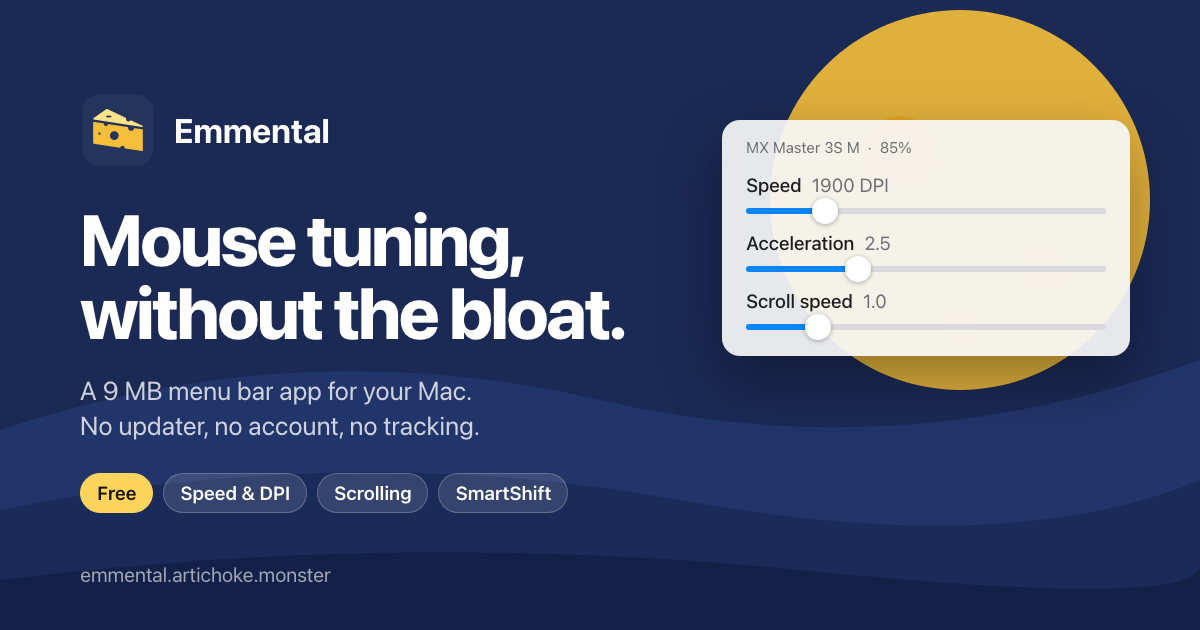
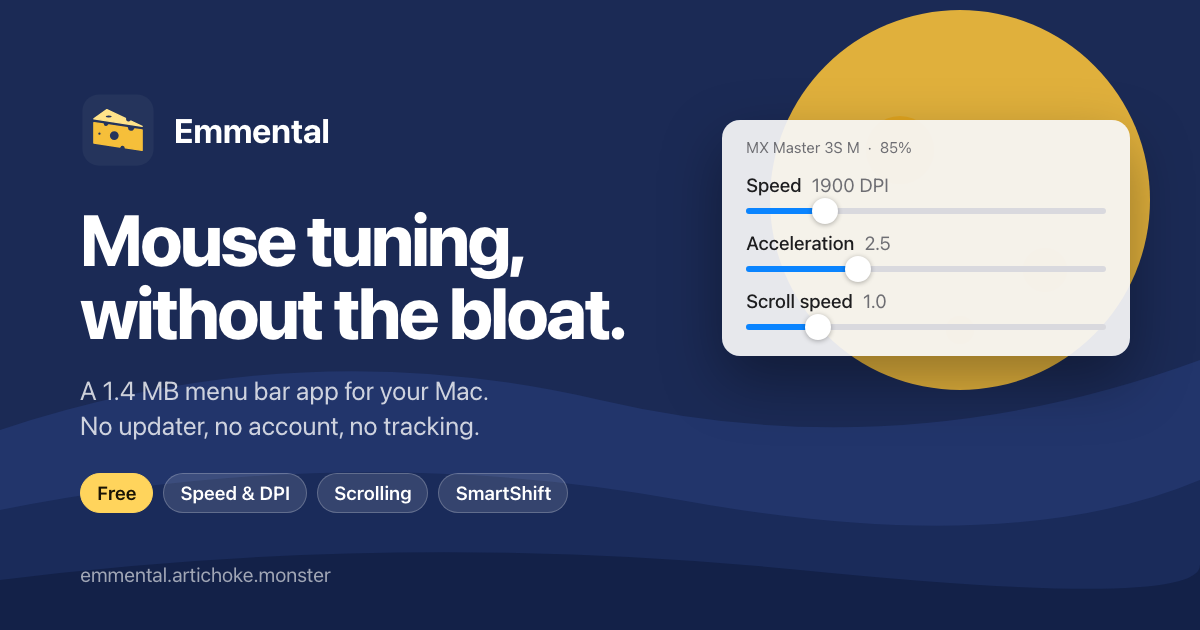
Docs: size and memory claims that hold on every Mac
"9 MB" was the Intel memory figure. Size claims now say 1.4 MB (the
universal app on disk) and memory claims say under 25 MB; the FAQ and
README give the measured figures: about 9 MB on Intel, about 23 MB on an
M1, where larger memory pages make every app look bigger. og.png is
re-rendered with the new line.

Changed region(s): [[0.0617, 0.6032, 0.4008, 0.6635]]

diff --git a/landing/index.html b/landing/index.html
@@ -4,7 +4,7 @@
 <meta charset="utf-8">
 <meta name="viewport" content="width=device-width, initial-scale=1">
 <title>Emmental · Mouse tuning for Mac, without the bloat</title>
-<meta name="description" content="Free 9 MB Mac menu bar app for mouse speed, acceleration and scrolling, plus DPI, SmartShift and battery on Logitech MX mice. No updater, no account.">
+<meta name="description" content="Free 1.4 MB Mac menu bar app for mouse speed, acceleration and scrolling, plus DPI, SmartShift and battery on Logitech MX mice. No updater, no account.">
 <link rel="canonical" href="https://emmental.artichoke.monster/">
 <meta name="robots" content="index, follow">
 <meta name="theme-color" content="#1E2A4A">
@@ -16,14 +16,14 @@
 <meta property="og:site_name" content="Emmental">
 <meta property="og:url" content="https://emmental.artichoke.monster/">
 <meta property="og:title" content="Emmental · Mouse tuning for Mac, without the bloat">
-<meta property="og:description" content="A free 9 MB menu bar app for mouse speed, scrolling, and Logitech DPI, SmartShift and battery. No updater, no account, no tracking.">
+<meta property="og:description" content="A free 1.4 MB menu bar app for mouse speed, scrolling, and Logitech DPI, SmartShift and battery. No updater, no account, no tracking.">
 <meta property="og:image" content="https://emmental.artichoke.monster/og.png">
 <meta property="og:image:width" content="1200">
 <meta property="og:image:height" content="630">
 <meta property="og:image:alt" content="The Emmental app icon, the headline “Mouse tuning, without the bloat.”, and its menu with Speed, Acceleration and Scroll speed sliders.">
 <meta name="twitter:card" content="summary_large_image">
 <meta name="twitter:title" content="Emmental · Mouse tuning for Mac, without the bloat">
-<meta name="twitter:description" content="A free 9 MB menu bar app for mouse speed, scrolling, and Logitech DPI, SmartShift and battery.">
+<meta name="twitter:description" content="A free 1.4 MB menu bar app for mouse speed, scrolling, and Logitech DPI, SmartShift and battery.">
 <meta name="twitter:image" content="https://emmental.artichoke.monster/og.png">
 <meta name="twitter:image:alt" content="The Emmental app icon, the headline “Mouse tuning, without the bloat.”, and its menu with Speed, Acceleration and Scroll speed sliders.">
 
@@ -403,7 +403,7 @@ input[type=range]:disabled { opacity: 0.4; }
 
   <section class="hero">
     <h1>Mouse tuning, without the bloat.</h1>
-    <p>Speed, scrolling and SmartShift for your mouse, from a 9 MB app in your menu bar. No updater, no account, no tracking.</p>
+    <p>Speed, scrolling and SmartShift for your mouse, from a 1.4 MB app in your menu bar. No updater, no account, no tracking.</p>
     <div class="actions">
       <a class="btn primary" href="https://github.com/Huseyinnurbaki/emmental/releases/latest/download/Emmental.zip">Download free for Mac</a>
       <button class="btn ghost" data-open="readme">What it does</button>
@@ -445,12 +445,12 @@ input[type=range]:disabled { opacity: 0.4; }
       <ul>
         <li>No background updater, no login, no account.</li>
         <li>No analytics. It only goes online when you click Check for Updates.</li>
-        <li>About 9 MB of memory, all in.</li>
+        <li>Under 25 MB of memory, all in.</li>
       </ul>
       <h2 style="margin-top:26px">Why Emmental exists</h2>
       <p>Logitech's MX mice are great mice. The software around them can feel like a lot: Logi Options+ is a big app for a handful of settings, keeps helpers running in the background, and asks for updates more often than a mouse seems to need.</p>
       <p>Over the years it adds up. The Mac this started on had collected more than 2 GB of Logitech software: Options+, the older Logitech Options, and G HUB, each with its own helpers, updaters and drivers. All for one mouse.</p>
-      <p>Yet the thing most people want is simply a faster pointer. Emmental does that, plus the few extras worth keeping: DPI, SmartShift and battery. It sits in the menu bar, uses about 9 MB, and asks for nothing.</p>
+      <p>Yet the thing most people want is simply a faster pointer. Emmental does that, plus the few extras worth keeping: DPI, SmartShift and battery. It sits in the menu bar, uses under 25 MB of memory, and asks for nothing.</p>
       <h3>You can build one too</h3>
       <p>Emmental was built in a couple of days with AI. It worked out Logitech's HID++ protocol by asking the mouse questions one careful, read-only step at a time, before changing anything.</p>
       <p>If a gadget you own comes with an app you don't love, you probably don't need the whole suite. Describe the one thing you want, and build that. The source is on GitHub if you want a starting point.</p>
@@ -473,7 +473,7 @@ input[type=range]:disabled { opacity: 0.4; }
       <h3>Why does macOS say it can't verify the developer?</h3>
       <p>Emmental isn't notarized by Apple yet. Open it once from System Settings › Privacy &amp; Security › Open Anyway, or build it from source; the Install window in the Dock has both.</p>
       <h3>How heavy is it, really?</h3>
-      <p>About 9 MB of memory with the menu open or closed, no helper processes, and the download is about a megabyte.</p>
+      <p>About 9 MB of memory on an Intel Mac and about 23 MB on Apple silicon, measured on an M1 (its larger memory pages make every app look bigger there), no helper processes, and close to zero CPU. The app itself is 1.4 MB with both versions inside.</p>
       <h3>Why is it called Emmental?</h3>
       <p>The answer is hidden somewhere on this page. Hint: look closely at the cheesiest thing on the desktop.</p>
       <p style="margin-top:22px;color:var(--text-3)">You reached the bottom. Your scroll wheel works.</p>
@@ -794,7 +794,7 @@ input[type=range]:disabled { opacity: 0.4; }
   });
   $('#quit').addEventListener('click', () => {
     setMenu(false);
-    showToast("Nice try. It's only 9 MB, let it stay.");
+    showToast("Nice try. It's only 1.4 MB, let it stay.");
   });
 
   // Copy buttons in the Install window.

diff --git a/scripts/og-image.html b/scripts/og-image.html
@@ -44,7 +44,7 @@
       Emmental
     </div>
     <h1>Mouse tuning, without the bloat.</h1>
-    <div class="sub">A 9 MB menu bar app for your Mac.<br>No updater, no account, no tracking.</div>
+    <div class="sub">A 1.4 MB menu bar app for your Mac.<br>No updater, no account, no tracking.</div>
     <div class="chips"><span class="cheese">Free</span><span>Speed &amp; DPI</span><span>Scrolling</span><span>SmartShift</span></div>
   </div>
 

diff --git a/README.md b/README.md
@@ -29,7 +29,7 @@ Also:
 
 - Logitech mice over **Bluetooth or a Bolt / Unifying receiver**
 - Lives in the menu bar, no Dock icon, no background services, no updater
-- About 9 MB of memory
+- A 1.4 MB app using under 25 MB of memory (about 9 MB on Intel, 23 MB on an M1)
 - Uses public IOKit APIs only. Acceleration and scroll speed need no
   permissions; the Logitech features are opt-in and need Input Monitoring
 
